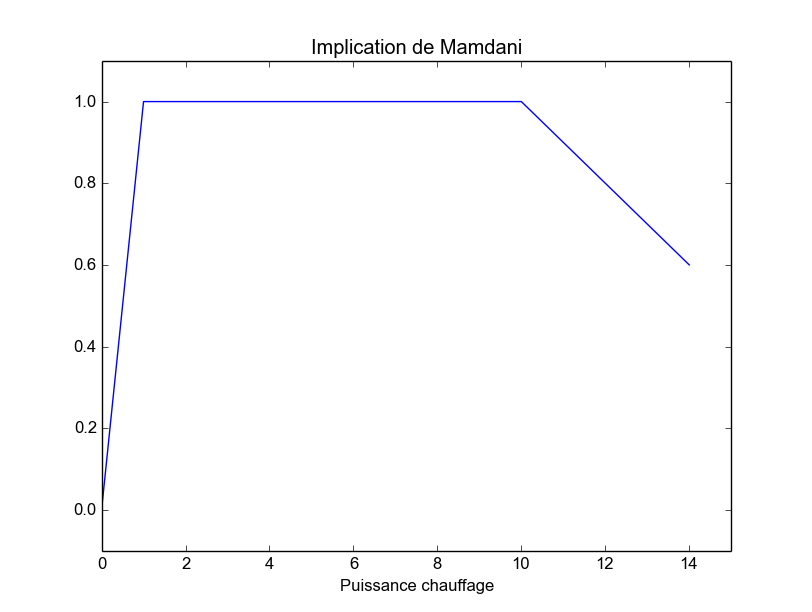
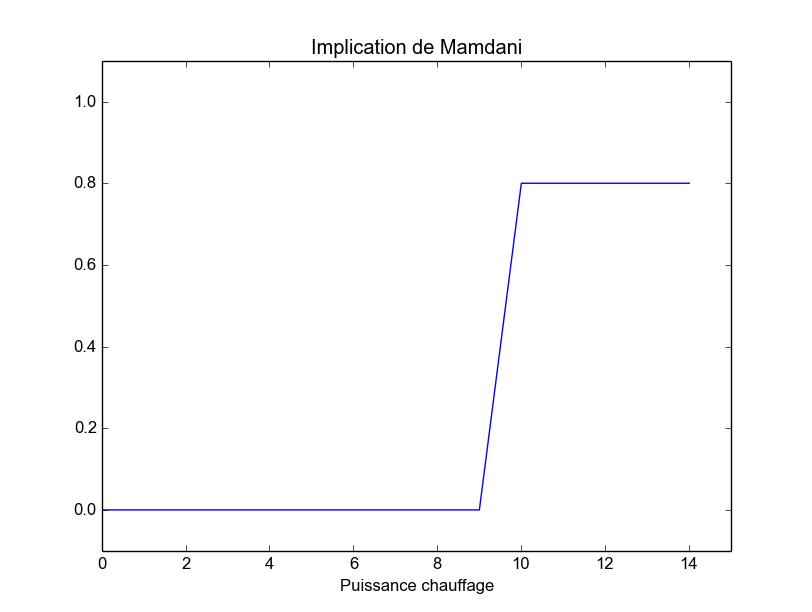
correction orthographe

diff --git a/tpFlou/rapport/rapport.tex b/tpFlou/rapport/rapport.tex
@@ -54,17 +54,16 @@
 
 \section{Introduction}
 Lors de ce TP, nous allons nous familiariser avec les concepts principaux de la logique floue.
-La logique floue repose sur un système de proposition dont la valeur est dans l'intervalle [0,1] contrairement aux logique
-modales qui reposent sur un système binaire. 
+La logique floue repose sur un système de propositions dont la valeur est dans l'intervalle [0,1] contrairement aux logiques modales qui reposent sur un système binaire. 
 
 \section{Fonction d'appartenance}
 Dans un premier temps, nous programmons trois ensembles flous représentant des intervalles de température.
 Pour cela nous définissons une fonction par intervalle afin de définir sa courbe. Dans ces fonctions, nous 
-distinguons trois cas possible :
+distinguons trois cas possibles :
 \begin{itemize}
   \item Un intervalle où l'ensemble est vrai (ordonnée = 1)
   \item Un intervalle où l'ensemble est faux (ordonnée = 0)
-  \item Un intervalle où l'ensemble a un degré de liberté entre 0 et 1
+  \item Un intervalle où l'ensemble a un degré d'incertitude entre 0 et 1
 \end{itemize}
 Nous obtenons ainsi le graphique de la Fig. \ref{fig:GraphiqueFlou} 
 
@@ -104,7 +103,7 @@ ensemble (voir Tab. \ref{tab:temp16}).
 \end{table}
 
 \section{Opérateurs de la logique floue}
-Il est possible de définir des opérateurs permettant de récupérer en sorti les valeurs maximum ou 
+Il est possible de définir des opérateurs permettant de récupérer en sortie les valeurs maximum ou 
 minimum de deux ensembles. Pour cela nous créons les fonctions suivantes :
 \begin{lstlisting}[caption=Opérateur min]
  def Opmin(tab1, tab2):
@@ -129,20 +128,21 @@ minimum de deux ensembles. Pour cela nous créons les fonctions suivantes :
 \begin{figure}[!h]
   \begin{center}
     \includegraphics[width=9cm]{operateurFlou.png}
-    \caption{Graphique des fonction min et max de la logique floue}
+    \caption{Graphique des fonctions min et max de la logique floue}
     \label{fig:operateur}
   \end{center}
 \end{figure}
 
-Dans la Fig. \ref{fig:operateur}, la courbe bleu représente la fonction min entre les sous-ensemble
-température moyenne et température élevé et la courbe verte représente la fonction max pour les mêmes
-sous-ensemble que la courbe bleu.
+Dans la Fig. \ref{fig:operateur}, la courbe bleue représente la fonction min entre les sous-ensembles
+température moyenne et température élevée, et la courbe verte représente la fonction max pour les mêmes
+sous-ensembles que la courbe bleue.
 
 \section{Implication floue}
 A partir de la règle \og si température basse alors chauffer fort \fg , nous utilisons l'implication
 de Mamdani pour construire la sortie \og puissance de chauffe \fg . L'implication de Mamdani dit que l'ensemble
-floue de sorti correspond à la fonction minimum de la logique floue pour les sous-ensemble pris en compte. En appliquant
-ce principe nous optenons le sous-ensemble de la Fig. \ref{fig:mamdani}.
+flou de sortie correspond au minimum entre une fonction et la valeur recherchée. En appliquant
+ce principe nous obtenons le sous-ensemble de la Fig. \ref{fig:mamdani} où la valeur maximum est 0.8, car 0.8 est la valeur 
+d'incertitude de la température 12\degre.
 
 \begin{figure}[!h]
   \begin{center}

diff --git a/tpFlou/floue.py b/tpFlou/floue.py
@@ -57,6 +57,12 @@ def Chauf(i):
     else:
         return 1
 
+def ChaufTemp(tab, mini):
+    result = []
+    for i in tab:
+        result.append(min(i, mini))
+    return result
+
 #calcul de la courbe
 temp = range(0, 40)
 puissanceChauf = range(0,15)
@@ -117,8 +123,9 @@ plt.show()
 
 #Exo 3
 
+result = ChaufTemp(chauffe, 0.8)
 plt.title("Implication de Mamdani")
-plt.plot(puissanceChauf, Opmin(temperatureB, puissanceChauf))
+plt.plot(range(0, len(result)), result)
 plt.xlabel('Puissance chauffage')
 plt.axis([0, 15, -0.1, 1.1])
 plt.show()
